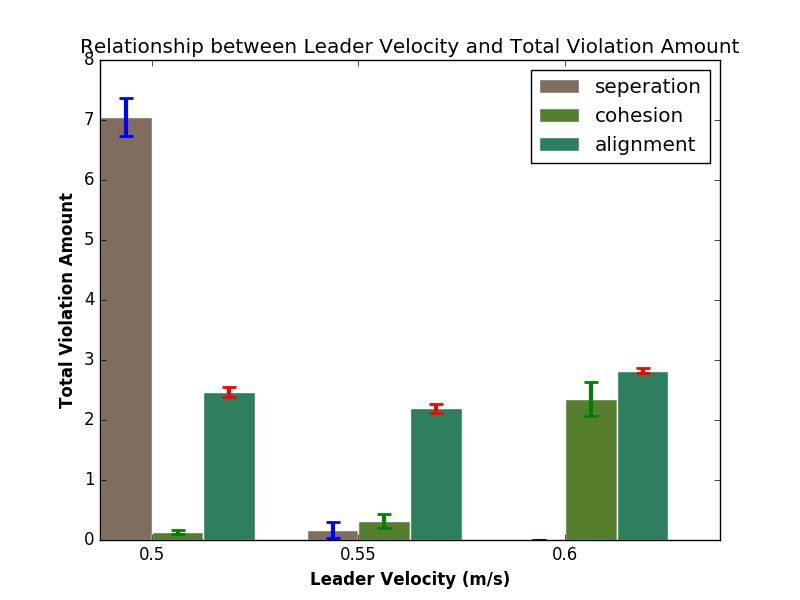
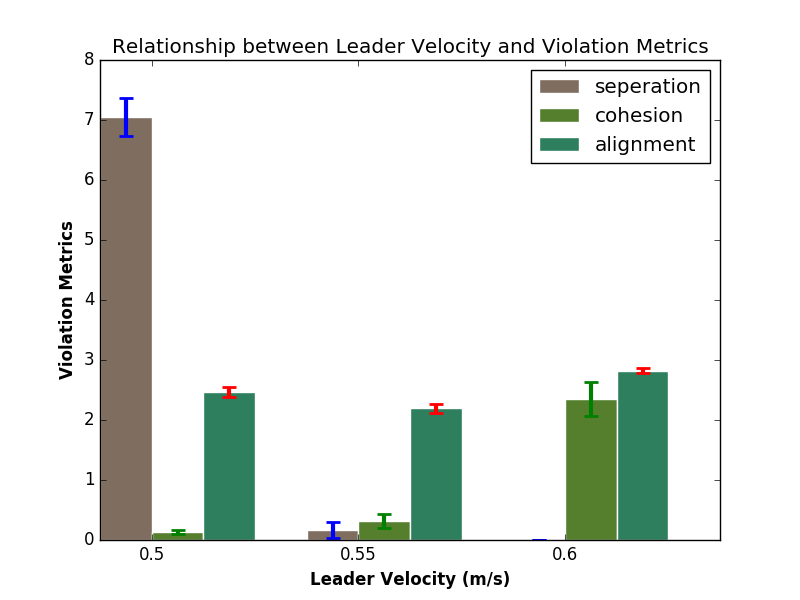
Figures related to last research question is completed.

Changed region(s): [[0.0938, 0.06, 0.9375, 0.09], [0.0625, 0.33, 0.0938, 0.69]]

diff --git a/data/visualize_data.py b/data/visualize_data.py
@@ -53,9 +53,9 @@ plt.bar(r3, bars_align, yerr=align_std, error_kw=dict(lw=3, capsize=5, capthick=
  
 # Add xticks on the middle of the group bars
 plt.xlabel('Leader Velocity (m/s)', fontweight='bold')
-plt.ylabel('Total Violation Amount', fontweight='bold')
+plt.ylabel('Violation Metrics', fontweight='bold')
 plt.xticks([r + bar_width for r in range(len(bars_sep))], ['0.5','0.55','0.6'])
-plt.title('Relationship between Leader Velocity and Total Violation Amount')
+plt.title('Relationship between Leader Velocity and Violation Metrics')
 # Create legend & Show graphic
 plt.legend()
 #plt.savefig('leader_velocity.png')
@@ -114,10 +114,276 @@ plt.bar(r3, bars_align2, yerr=align_std2, error_kw=dict(lw=3, capsize=5, capthic
  
 # Add xticks on the middle of the group bars
 plt.xlabel('Leader Weight over Other Boids Weights', fontweight='bold')
-plt.ylabel('Total Violation Amount', fontweight='bold')
+plt.ylabel('Violation Metrics', fontweight='bold')
 plt.xticks([r + bar_width for r in range(len(bars_sep2))], ['1.0','1.1','1.2'])
-plt.title('Relationship Between Relative Leader Weight and Total Violation Amount')
+plt.title('Relationship Between Relative Leader Weight and Violation Metrics')
 # Create legend & Show graphic
 plt.legend(loc=2, prop={'size': 8})
 #plt.savefig('leader_weight.png')
+plt.show()
+
+"""
+Research Question 3 --> Relation between violation count and total number of agents
+Controlled Variables: separation threshold = 0.7m , cohesion threshold = 2.25m,
+alignment threshold = 45 degree, delay = 1.8s, leader_velocity = 0.55 m/s
+separation_weight = 1.0 , cohesion_weight = 1.0, alignment_weight = 1.0
+leader_weight = 1.0 
+Independent variable: total number of robots = 7 or 13 or 19
+"""
+
+total_7_sep_robot1 = [0, 0, 0, 0, 0]
+total_7_sep_robot2 = [37, 83, 15, 23, 10]
+total_7_sep_robot3 = [47, 69, 62, 44, 56]
+total_7_sep_robot4 = [0, 20, 14, 5, 0]
+total_7_sep_robot5 = [33, 92, 47, 60, 46]
+total_7_sep_robot6 = [50, 226, 89, 215, 79]
+
+total_7_coh_robot1 = [0, 0, 0, 0, 0]
+total_7_coh_robot2 = [0, 0, 0, 0, 0]
+total_7_coh_robot3 = [0, 0, 0, 0, 0]
+total_7_coh_robot4 = [0, 0, 0, 0, 0]
+total_7_coh_robot5 = [0, 0, 0, 0, 0]
+total_7_coh_robot6 = [0, 0, 0, 0, 0]
+
+total_7_align_robot1 = [120, 121, 118, 121, 123]
+total_7_align_robot2 = [120, 115, 119, 120, 120]
+total_7_align_robot3 = [116, 112, 116, 116, 115]
+total_7_align_robot4 = [117, 121, 116, 124, 124]
+total_7_align_robot5 = [118, 118, 117, 116, 116]
+total_7_align_robot6 = [116, 118, 118, 117, 117]
+
+
+bar_width = 0.25
+ 
+# set height of bar
+bars_sep3 = [np.mean(total_7_sep_robot1),np.mean(total_7_sep_robot2),np.mean(total_7_sep_robot3),
+            np.mean(total_7_sep_robot4), np.mean(total_7_sep_robot5), np.mean(total_7_sep_robot6)]
+
+bars_coh3 = [np.mean(total_7_coh_robot1),np.mean(total_7_coh_robot2),np.mean(total_7_coh_robot3),
+            np.mean(total_7_coh_robot4), np.mean(total_7_coh_robot5), np.mean(total_7_coh_robot6)]
+
+bars_align3 = [np.mean(total_7_align_robot1),np.mean(total_7_align_robot2),np.mean(total_7_align_robot3),
+            np.mean(total_7_align_robot4), np.mean(total_7_align_robot5), np.mean(total_7_align_robot6)]
+
+# set standard deviation of data for error bars
+sep_std3 = [np.std(total_7_sep_robot1), np.std(total_7_sep_robot2), np.std(total_7_sep_robot3), 
+            np.std(total_7_sep_robot4), np.std(total_7_sep_robot5), np.std(total_7_sep_robot6)]
+
+coh_std3 = [np.std(total_7_coh_robot1), np.std(total_7_coh_robot2), np.std(total_7_coh_robot3), 
+            np.std(total_7_coh_robot4), np.std(total_7_coh_robot5), np.std(total_7_coh_robot6)]
+
+align_std3 = [np.std(total_7_align_robot1), np.std(total_7_align_robot2), np.std(total_7_align_robot3), 
+            np.std(total_7_align_robot4), np.std(total_7_align_robot5), np.std(total_7_align_robot6)]
+
+
+# Set position of bar on X axis
+r1 = np.arange(len(bars_sep3))
+r2 = [x + bar_width for x in r1]
+r3 = [x + bar_width for x in r2]
+ 
+# Make the plot
+plt.bar(r1, bars_sep3, yerr=sep_std3, error_kw=dict(lw=3, capsize=5, capthick=2), color='#7f6d5f', width=bar_width, edgecolor='white', label='seperation')
+plt.bar(r2, bars_coh3, yerr=coh_std3, error_kw=dict(lw=3, capsize=5, capthick=2), color='#557f2d', width=bar_width, edgecolor='white', label='cohesion')
+plt.bar(r3, bars_align3, yerr=align_std3, error_kw=dict(lw=3, capsize=5, capthick=2), color='#2d7f5e', width=bar_width, edgecolor='white', label='alignment')
+ 
+# Add xticks on the middle of the group bars
+plt.xlabel('Robots', fontweight='bold')
+plt.ylabel('Total Violation Amount During Entire Simulation', fontweight='bold')
+plt.xticks([r + bar_width for r in range(len(bars_sep3))], ['Robot1','Robot2','Robot3','Robot4','Robot5','Robot6'])
+plt.title('Total Violation Amounts for Simulation with 7 Robots')
+# Create legend & Show graphic
+x1,x2,y1,y2 = plt.axis()
+plt.axis((x1,x2,0,y2))
+plt.legend(loc=9) #(loc=2, prop={'size': 8})
+#plt.savefig('7robots.png')
+plt.show()
+
+#####################################
+total_13_sep_robot1 = [0, 0, 0, 0, 0]
+total_13_sep_robot2 = [14, 0, 0, 0, 0]
+total_13_sep_robot3 = [0, 0, 25, 0, 0]
+total_13_sep_robot4 = [0, 0, 0, 0, 0]
+total_13_sep_robot5 = [24, 16, 25, 0, 24]
+total_13_sep_robot6 = [27, 12, 86, 0, 25]
+total_13_sep_robot7 = [0, 0, 0, 0, 0]
+total_13_sep_robot8 = [0, 0, 27, 0, 0]
+total_13_sep_robot9 = [0, 0, 0, 0, 0]
+total_13_sep_robot10 = [0, 0, 59, 0, 0]
+total_13_sep_robot11 = [15, 0, 50, 0, 0]
+total_13_sep_robot12 = [50, 11, 23, 0, 98]
+
+total_13_coh_robot1 = [0, 0, 0, 0, 0]
+total_13_coh_robot2 = [0, 0, 0, 0, 0]
+total_13_coh_robot3 = [0, 0, 0, 0, 0]
+total_13_coh_robot4 = [0, 0, 0, 0, 0]
+total_13_coh_robot5 = [31, 61, 32, 67, 32]
+total_13_coh_robot6 = [70, 71, 65, 88, 70]
+total_13_coh_robot7 = [0, 0, 0, 0, 0]
+total_13_coh_robot8 = [0, 0, 0, 0, 0]
+total_13_coh_robot9 = [0, 0, 0, 19, 0]
+total_13_coh_robot10 = [0, 0, 0, 60, 0]
+total_13_coh_robot11 = [0, 64, 0, 86, 30]
+total_13_coh_robot12 = [67, 73, 69, 81, 42]
+
+total_13_align_robot1 = [107, 124, 152, 136, 129]
+total_13_align_robot2 = [105, 125, 157, 107, 129]
+total_13_align_robot3 = [159, 158, 168, 153, 139]
+total_13_align_robot4 = [136, 155, 157, 167, 137]
+total_13_align_robot5 = [127, 127, 128, 128, 133]
+total_13_align_robot6 = [135, 136, 121, 134, 138]
+total_13_align_robot7 = [111, 128, 128, 128, 130]
+total_13_align_robot8 = [108, 129, 127, 126, 129]
+total_13_align_robot9 = [164, 171, 171, 174, 131]
+total_13_align_robot10 = [133, 151, 115, 137, 138]
+total_13_align_robot11 = [132, 130, 137, 153, 134]
+total_13_align_robot12 = [132, 131, 131, 153, 132]
+
+
+bar_width = 0.25
+ 
+# set height of bar
+bars_sep4 = [np.mean(total_13_sep_robot1),np.mean(total_13_sep_robot2),np.mean(total_13_sep_robot3),
+            np.mean(total_13_sep_robot4), np.mean(total_13_sep_robot5), np.mean(total_13_sep_robot6)]
+
+bars_coh4 = [np.mean(total_13_coh_robot1),np.mean(total_13_coh_robot2),np.mean(total_13_coh_robot3),
+            np.mean(total_13_coh_robot4), np.mean(total_13_coh_robot5), np.mean(total_13_coh_robot6)]
+
+bars_align4 = [np.mean(total_13_align_robot1),np.mean(total_13_align_robot2),np.mean(total_13_align_robot3),
+            np.mean(total_13_align_robot4), np.mean(total_13_align_robot5), np.mean(total_13_align_robot6)]
+
+# set standard deviation of data for error bars
+sep_std4 = [np.std(total_13_sep_robot1), np.std(total_13_sep_robot2), np.std(total_13_sep_robot3), 
+            np.std(total_13_sep_robot4), np.std(total_13_sep_robot5), np.std(total_13_sep_robot6)]
+
+coh_std4 = [np.std(total_13_coh_robot1), np.std(total_13_coh_robot2), np.std(total_13_coh_robot3), 
+            np.std(total_13_coh_robot4), np.std(total_13_coh_robot5), np.std(total_13_coh_robot6)]
+
+align_std4 = [np.std(total_13_align_robot1), np.std(total_13_align_robot2), np.std(total_13_align_robot3), 
+            np.std(total_13_align_robot4), np.std(total_13_align_robot5), np.std(total_13_align_robot6)]
+
+
+# Set position of bar on X axis
+r1 = np.arange(len(bars_sep4))
+r2 = [x + bar_width for x in r1]
+r3 = [x + bar_width for x in r2]
+ 
+# Make the plot
+plt.bar(r1, bars_sep4, yerr=sep_std4, error_kw=dict(lw=3, capsize=5, capthick=2), color='#7f6d5f', width=bar_width, edgecolor='white', label='seperation')
+plt.bar(r2, bars_coh4, yerr=coh_std4, error_kw=dict(lw=3, capsize=5, capthick=2), color='#557f2d', width=bar_width, edgecolor='white', label='cohesion')
+plt.bar(r3, bars_align4, yerr=align_std4, error_kw=dict(lw=3, capsize=5, capthick=2), color='#2d7f5e', width=bar_width, edgecolor='white', label='alignment')
+ 
+# Add xticks on the middle of the group bars
+plt.xlabel('Robots', fontweight='bold')
+plt.ylabel('Total Violation Amount During Entire Simulation', fontweight='bold')
+plt.xticks([r + bar_width for r in range(len(bars_sep3))], ['Robot1','Robot2','Robot3','Robot4','Robot5','Robot6'])
+plt.title('Total Violation Amounts for Simulation with 13 Robots')
+# Create legend & Show graphic
+x1,x2,y1,y2 = plt.axis()
+plt.axis((x1,x2,0,y2))
+plt.legend() #(loc=2, prop={'size': 8})
+#plt.savefig('13robots.png')
+plt.show()
+
+####################################
+total_19_sep_robot1 = [0, 0, 0, 0, 0]
+total_19_sep_robot2 = [0, 0, 0, 0, 130]
+total_19_sep_robot3 = [0, 0, 0, 0, 0]
+total_19_sep_robot4 = [0, 0, 0, 0, 69]
+total_19_sep_robot5 = [14, 10, 19, 9, 64]
+total_19_sep_robot6 = [0, 0, 0, 35, 18]
+total_19_sep_robot7 = [0, 0, 0, 0, 119]
+total_19_sep_robot8 = [0, 177, 0, 8, 100]
+total_19_sep_robot9 = [0, 0, 0, 0, 0]
+total_19_sep_robot10 = [0, 200, 0, 0, 57]
+total_19_sep_robot11 = [0, 0, 0, 0, 0]
+total_19_sep_robot12 = [9, 0, 0, 12, 5]
+total_19_sep_robot13 = [0, 0, 0, 30, 4]
+total_19_sep_robot14 = [0, 0, 0, 0, 0]
+total_19_sep_robot15 = [0, 0, 0, 43, 0]
+total_19_sep_robot16 = [0, 0, 0, 27, 0]
+total_19_sep_robot17 = [18, 46, 31, 40, 22]
+total_19_sep_robot18 = [0, 140, 0, 64, 64]
+
+total_19_coh_robot1 = [187, 0, 226, 0, 0]
+total_19_coh_robot2 = [0, 0, 47, 0, 0]
+total_19_coh_robot3 = [17, 8, 19, 6, 9]
+total_19_coh_robot4 = [28, 30, 53, 51, 0]
+total_19_coh_robot5 = [64, 64, 72, 64, 0]
+total_19_coh_robot6 = [269, 74, 229, 75, 74]
+total_19_coh_robot7 = [177, 0, 186, 0, 0]
+total_19_coh_robot8 = [0, 0, 0, 0, 0]
+total_19_coh_robot9 = [175, 21, 191, 0, 0]
+total_19_coh_robot10 = [53, 0, 16, 30, 0]
+total_19_coh_robot11 = [278, 70, 232, 68, 68]
+total_19_coh_robot12 = [82, 85, 87, 82, 83]
+total_19_coh_robot13 = [216, 0, 128, 0, 0]
+total_19_coh_robot14 = [187, 0, 238, 0, 0]
+total_19_coh_robot15 = [159, 73, 165, 66, 71]
+total_19_coh_robot16 = [221, 75, 243, 69, 73]
+total_19_coh_robot17 = [81, 80, 85, 79, 81]
+total_19_coh_robot18 = [154, 142, 151, 95, 112]
+
+total_19_align_robot1 = [137, 140, 151, 128, 143]
+total_19_align_robot2 = [137, 148, 152, 141, 137]
+total_19_align_robot3 = [143, 175, 148, 112, 182]
+total_19_align_robot4 = [175, 179, 174, 177, 165]
+total_19_align_robot5 = [143, 149, 136, 165, 168]
+total_19_align_robot6 = [146, 193, 145, 143, 145]
+total_19_align_robot7 = [138, 144, 140, 115, 164]
+total_19_align_robot8 = [135, 156, 166, 137, 131]
+total_19_align_robot9 = [172, 178, 167, 180, 173]
+total_19_align_robot10 = [166, 141, 160, 182, 175]
+total_19_align_robot11 = [141, 139, 186, 118, 141]
+total_19_align_robot12 = [141, 142, 142, 119, 141]
+total_19_align_robot13 = [147, 136, 134, 143, 166]
+total_19_align_robot14 = [143, 133, 176, 159, 140]
+total_19_align_robot15 = [189, 164, 190, 153, 166]
+total_19_align_robot16 = [169, 154, 158, 145, 150]
+total_19_align_robot17 = [189, 166, 202, 142, 145]
+total_19_align_robot18 = [147, 140, 189, 141, 142]
+
+
+bar_width = 0.25
+ 
+# set height of bar
+bars_sep5 = [np.mean(total_19_sep_robot1),np.mean(total_19_sep_robot2),np.mean(total_19_sep_robot3),
+            np.mean(total_19_sep_robot4), np.mean(total_19_sep_robot5), np.mean(total_19_sep_robot6)]
+
+bars_coh5 = [np.mean(total_19_coh_robot1),np.mean(total_19_coh_robot2),np.mean(total_19_coh_robot3),
+            np.mean(total_19_coh_robot4), np.mean(total_19_coh_robot5), np.mean(total_19_coh_robot6)]
+
+bars_align5 = [np.mean(total_19_align_robot1),np.mean(total_19_align_robot2),np.mean(total_19_align_robot3),
+            np.mean(total_19_align_robot4), np.mean(total_19_align_robot5), np.mean(total_19_align_robot6)]
+
+# set standard deviation of data for error bars
+sep_std5 = [np.std(total_19_sep_robot1), np.std(total_19_sep_robot2), np.std(total_19_sep_robot3), 
+            np.std(total_19_sep_robot4), np.std(total_19_sep_robot5), np.std(total_19_sep_robot6)]
+
+coh_std5 = [np.std(total_19_coh_robot1), np.std(total_19_coh_robot2), np.std(total_19_coh_robot3), 
+            np.std(total_19_coh_robot4), np.std(total_19_coh_robot5), np.std(total_19_coh_robot6)]
+
+align_std5 = [np.std(total_19_align_robot1), np.std(total_19_align_robot2), np.std(total_19_align_robot3), 
+            np.std(total_19_align_robot4), np.std(total_19_align_robot5), np.std(total_19_align_robot6)]
+
+
+# Set position of bar on X axis
+r1 = np.arange(len(bars_sep5))
+r2 = [x + bar_width for x in r1]
+r3 = [x + bar_width for x in r2]
+ 
+# Make the plot
+plt.bar(r1, bars_sep5, yerr=sep_std5, error_kw=dict(lw=3, capsize=5, capthick=2), color='#7f6d5f', width=bar_width, edgecolor='white', label='seperation')
+plt.bar(r2, bars_coh5, yerr=coh_std5, error_kw=dict(lw=3, capsize=5, capthick=2), color='#557f2d', width=bar_width, edgecolor='white', label='cohesion')
+plt.bar(r3, bars_align5, yerr=align_std5, error_kw=dict(lw=3, capsize=5, capthick=2), color='#2d7f5e', width=bar_width, edgecolor='white', label='alignment')
+ 
+# Add xticks on the middle of the group bars
+plt.xlabel('Robots', fontweight='bold')
+plt.ylabel('Total Violation Amount During Entire Simulation', fontweight='bold')
+plt.xticks([r + bar_width for r in range(len(bars_sep5))], ['Robot1','Robot2','Robot3','Robot4','Robot5','Robot6'])
+plt.title('Total Violation Amounts for Simulation with 19 Robots')
+# Create legend & Show graphic
+x1,x2,y1,y2 = plt.axis()
+plt.axis((x1,x2,0,y2))
+plt.legend() #(loc=2, prop={'size': 8})
+#plt.savefig('19robots.png')
 plt.show()
